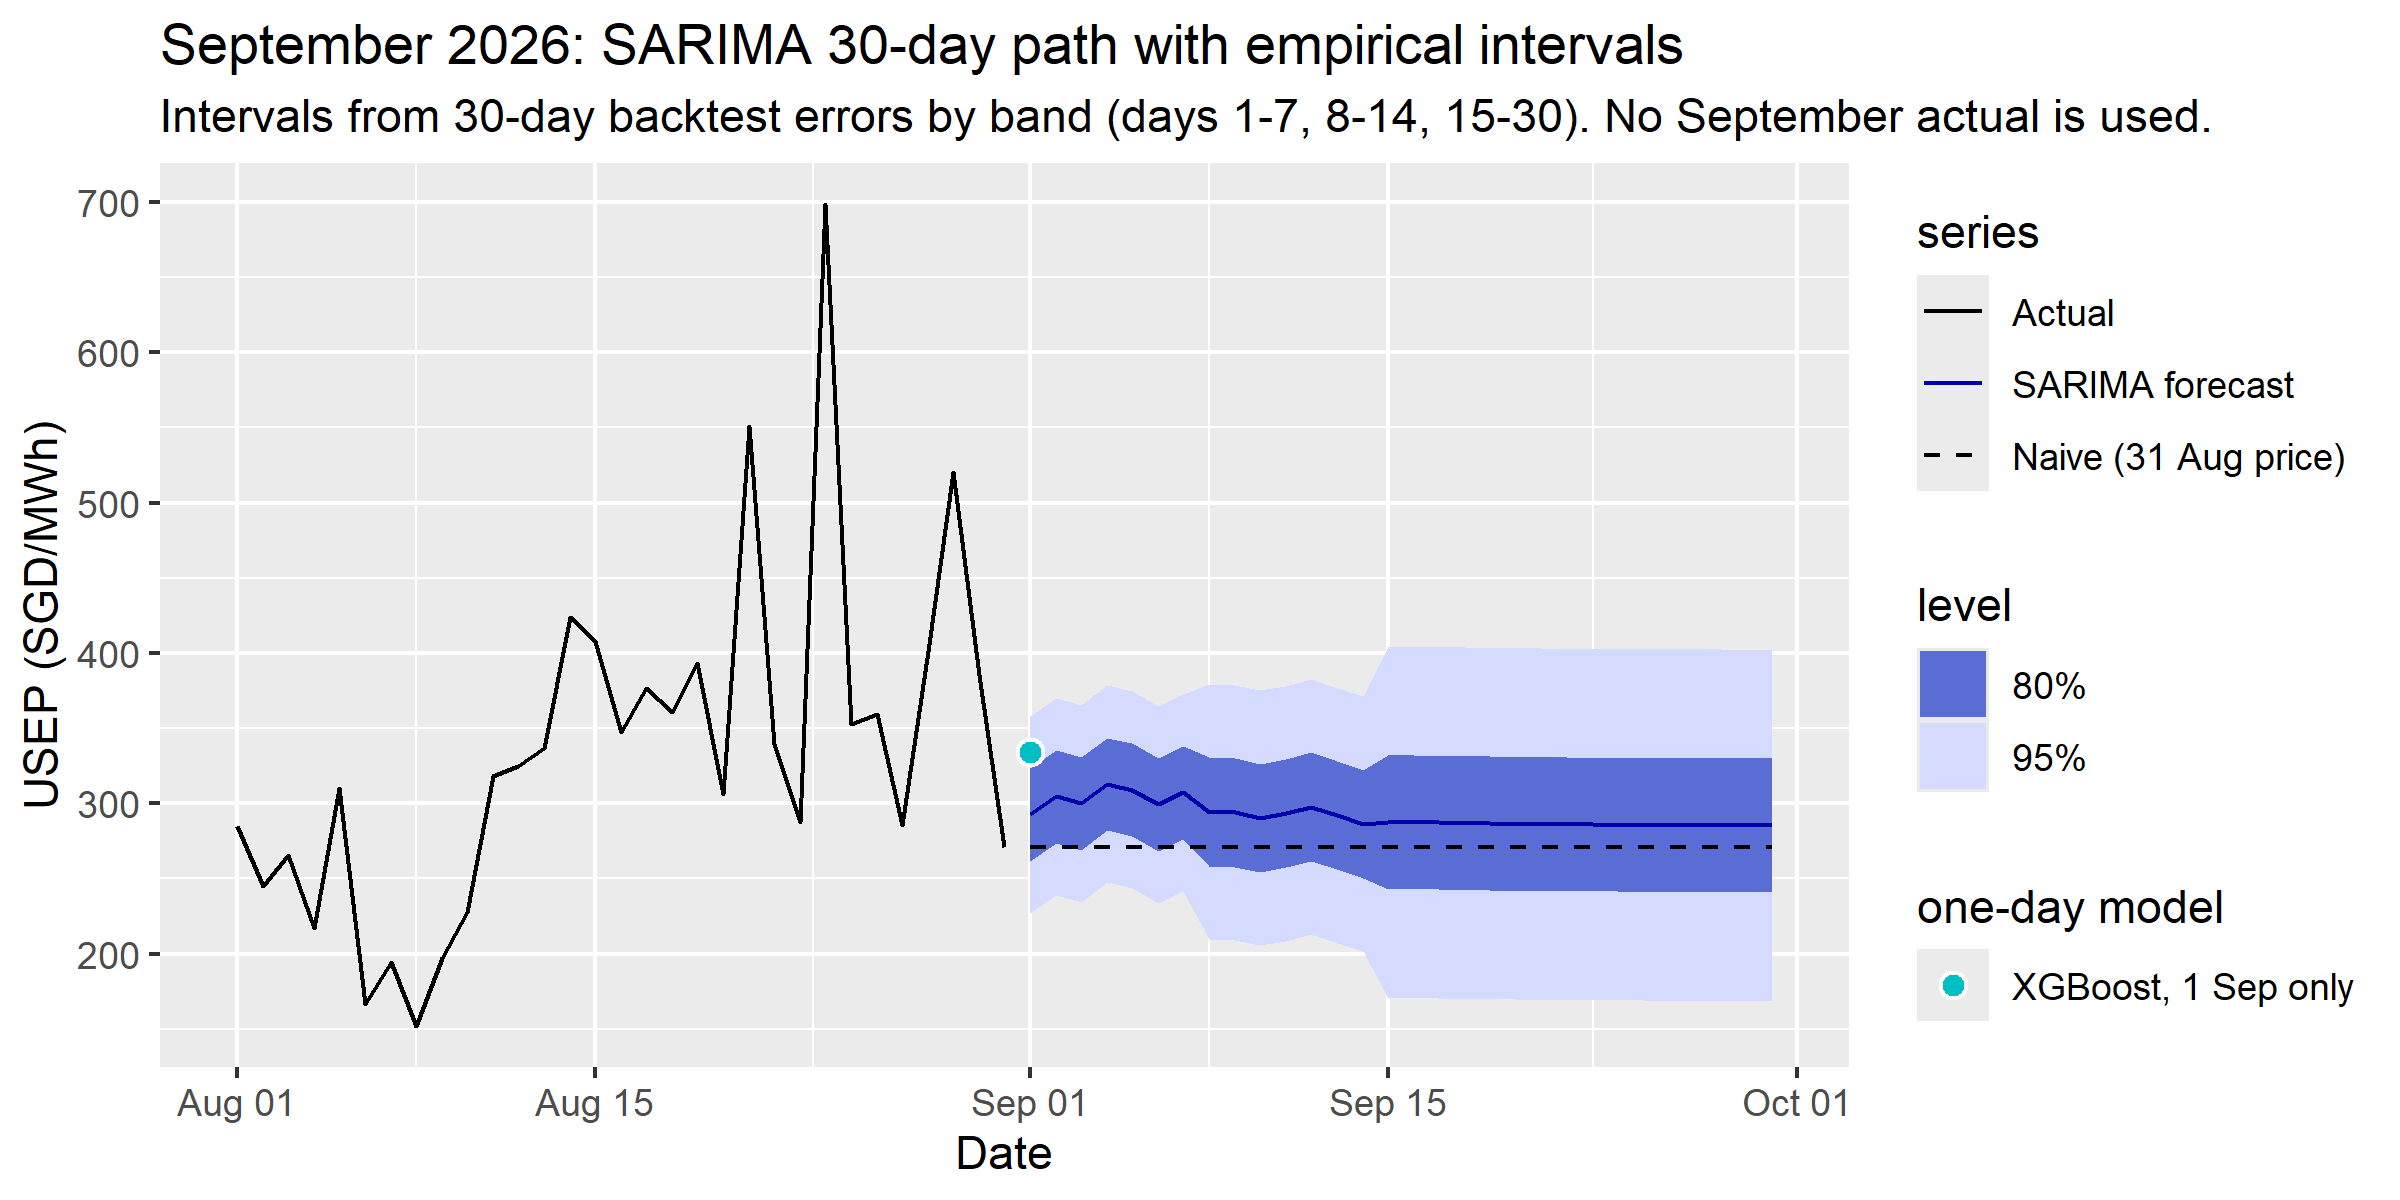
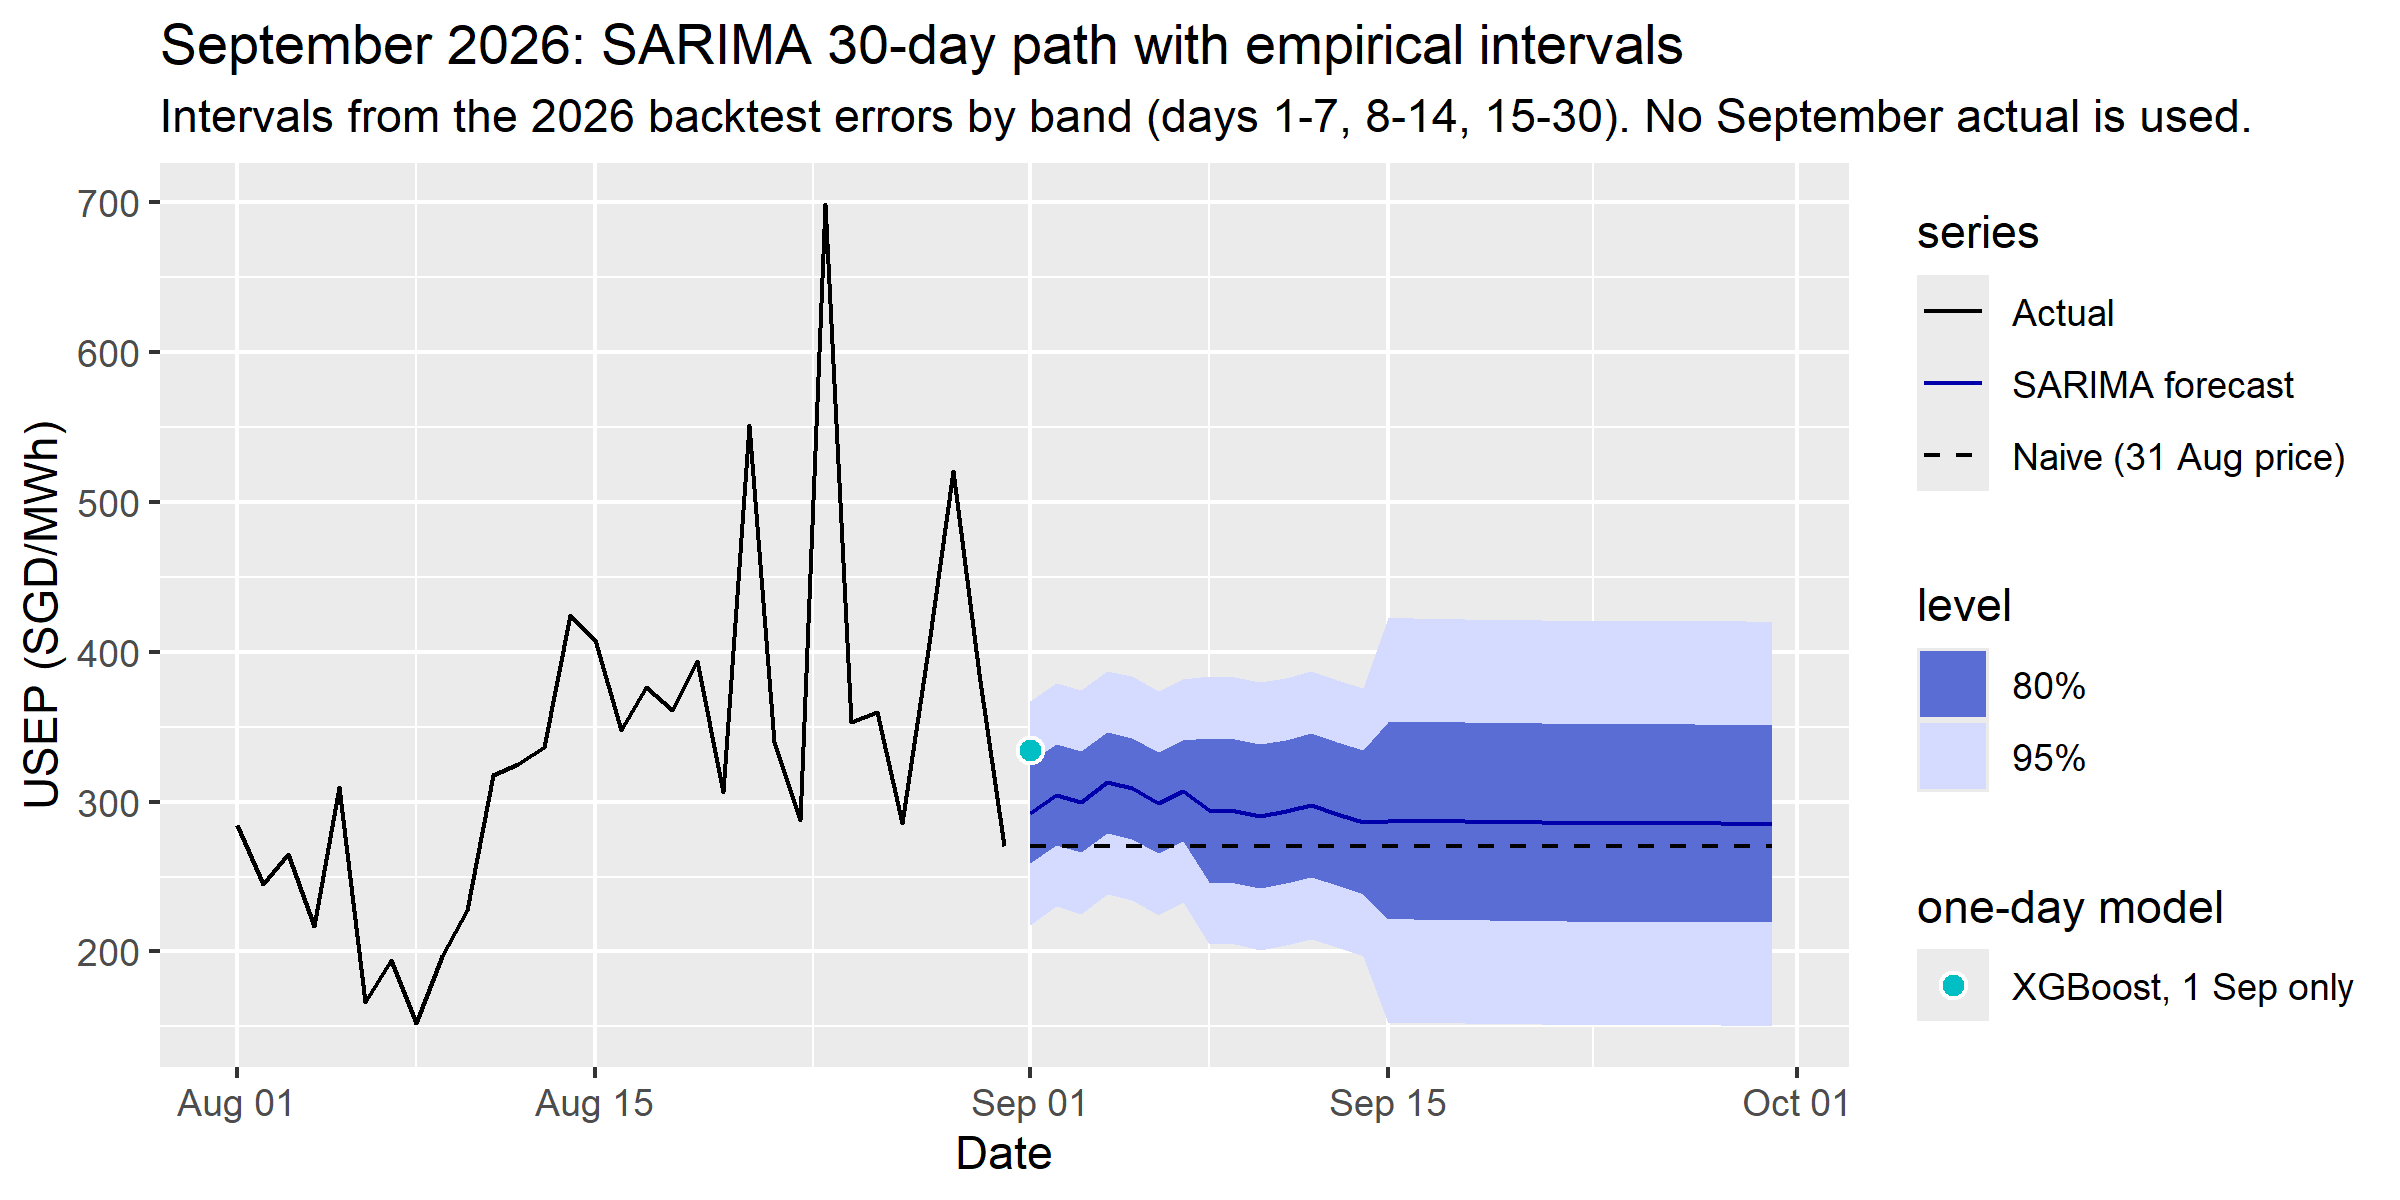
9 月路径和月均价的最终经验区间改为只用 2026 年回测误差
USEP_forecasting.Rmd（第 6.2 节）
- final_radius() 只取 2026 年回测误差（规则不变：绝对误差的
  ceiling((n+1)(1-a)) 秩，围绕点预测对称），与 6.1 只用最近已实现
  误差的原则一致。2025 年误差只用于校准检验，校准表不变。
- 三段步长的半径：80% 为 33.7、47.9、65.9，95% 为 74.6、89.2、134.8
  （此前两期合并为 30.9、36.1、44.5 和 65.5、84.8、116.9）。
- 正文写明：这样选择的原因是用 2025 年误差构造的区间在 2026 年覆盖
  不足；30 天均价只有 31 条误差，95% 的秩为 31，半径即其中的最大值。
- 局限部分写明：2026 年回测显示 SARIMA 系统性低估，且步长越长越
  明显；区间基于历史误差，无法预见价格水平的突变。
- 图 6 副标题同步改为 2026 年回测误差。

README.md
- 6.2 节的说明同步更新。

output/（本机默认模式渲染后重新生成）
- report_tables.xlsx：Sept_Path 的经验区间四列和 Sept_Mean 有变化；
  figures/fig6_september_path.png 有变化；processed_data.xlsx 各表
  内容不变，仅文件字节不同。

验证：默认模式渲染无报错。report_tables.xlsx 的其余 22 张表（原有
21 张和 Horizon_Backtest）、processed_data.xlsx 的 5 张表和图 1-5 与
上一提交逐位相同；Sept_Path 中的点预测、模型区间和 Naive 列不变。
三个缓存文件、data/、report/ 未改动。未运行 run_models = TRUE，
未使用任何 9 月实际值。

diff --git a/README.md b/README.md
@@ -5,7 +5,7 @@
 样本外的实际预测分两层（Rmd 第 6 节），数据截止 2026-08-31，不使用任何 9 月实际值：
 
 - 6.1 九月一日一日预测：全部模型加两个基准，区间为经验误差分位数。
-- 6.2 九月整月 30 天路径和 9 月月均价：主模型为 SARIMA，沿用冻结设定、用全部数据重估参数；区间为经验区间，由 2025 年和 2026 年的 30 天回测误差按步长段（1–7、8–14、15–30 天）构造；模型自带区间只作对照。ETS 只出现在回测表中，XGBoost 只有 9 月 1 日一个点。
+- 6.2 九月整月 30 天路径和 9 月月均价：主模型为 SARIMA，沿用冻结设定、用全部数据重估参数；区间为经验区间，由 2026 年的 30 天回测误差按步长段（1–7、8–14、15–30 天）构造，2025 年的回测误差只用于校准检验；模型自带区间只作对照。ETS 只出现在回测表中，XGBoost 只有 9 月 1 日一个点。
 
 ## 文件结构
 
